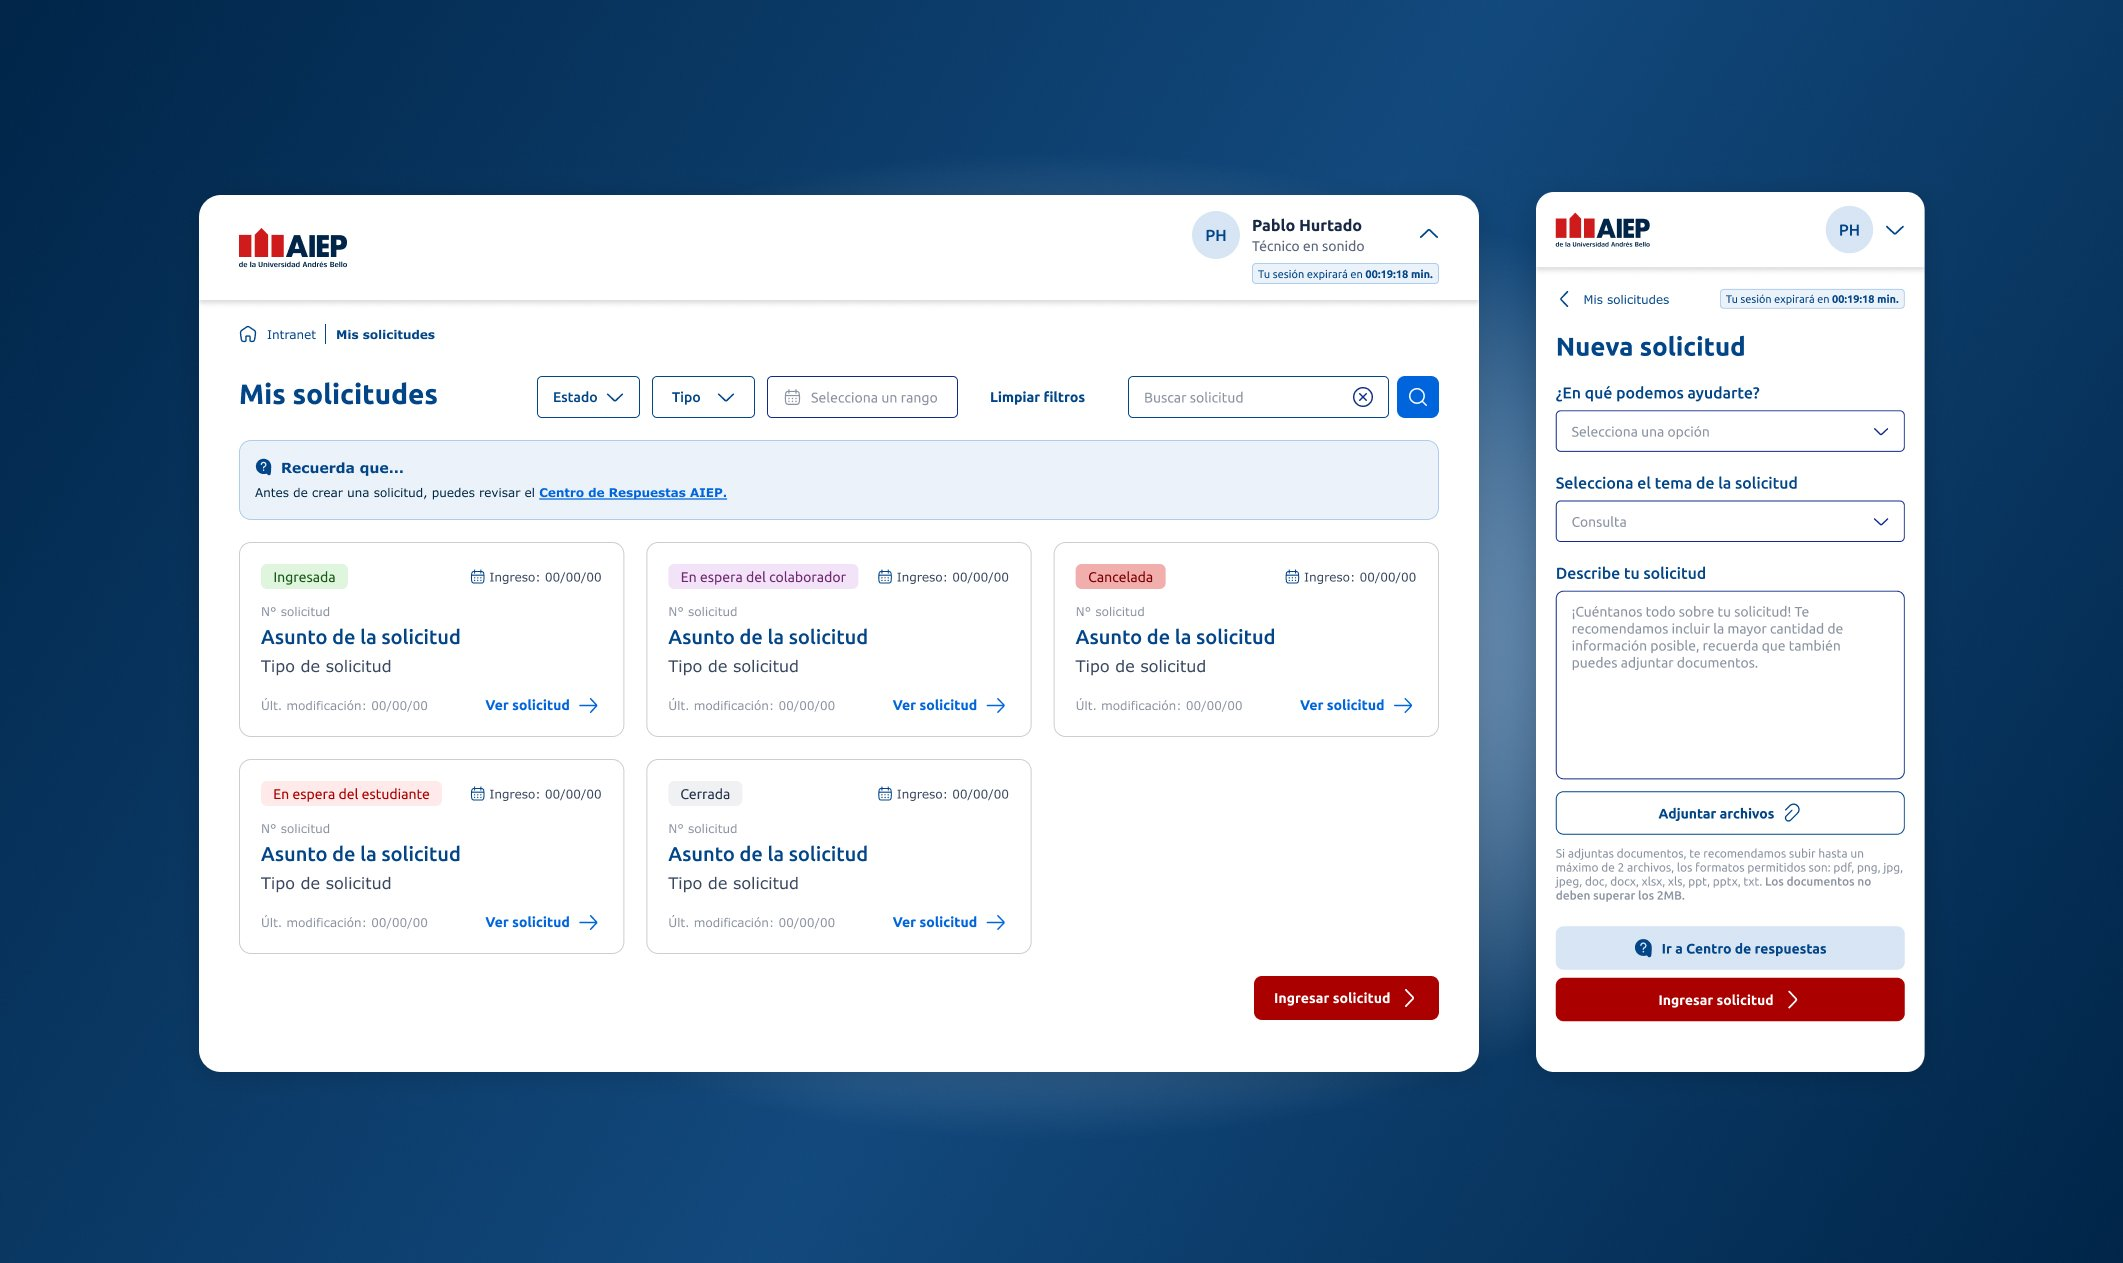
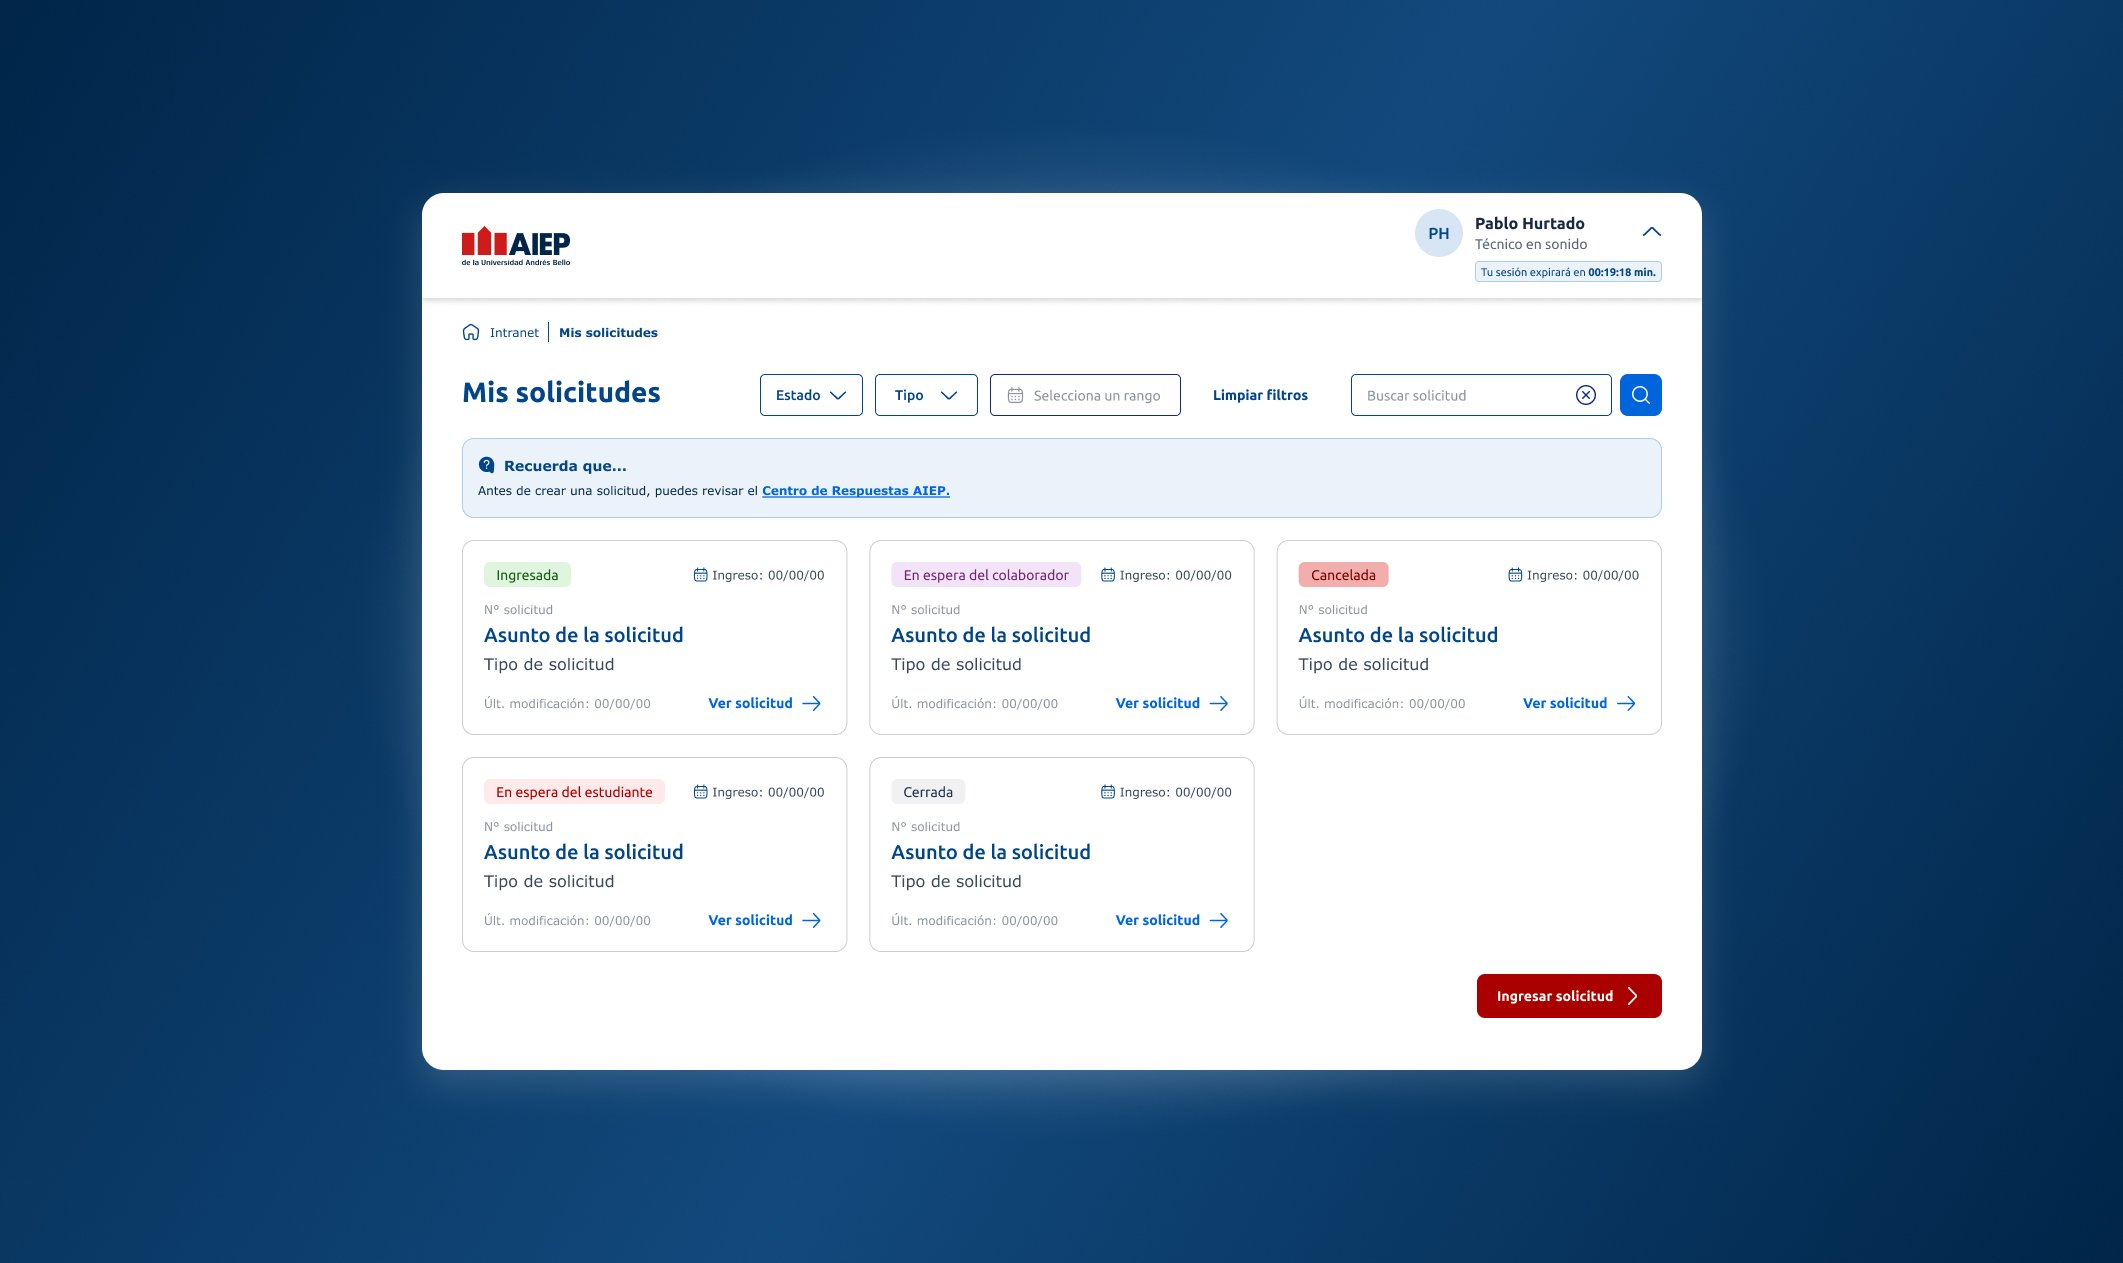
Add remaining subproject card images
Wires up Simulador de Becas y CAE, Recorridos 360°, and Certificados
especiales card images, completing all 4 subproject cards. Also
re-compresses mis-solicitudes-photo.jpg, which had reverted to its
uncompressed size.

Changed region(s): [[0.0933, 0.1544, 0.9326, 0.8646], [0.5285, 0.7102, 0.5596, 0.7411], [0.5285, 0.6176, 0.5596, 0.6485]]

diff --git a/src/data/aiepCaseStudies.js b/src/data/aiepCaseStudies.js
@@ -2,6 +2,9 @@ import designSystem from "../assets/aiep/design-system.jpg"
 import prototipoPago from "../assets/aiep/prototipo-pago.mp4"
 import prototipoMisSolicitudes from "../assets/aiep/prototipo-mis-solicitudes.jpg"
 import misSolicitudesPhoto from "../assets/aiep/mis-solicitudes-photo.jpg"
+import simuladorBecasPhoto from "../assets/aiep/card-simulador-becas.jpg"
+import recorridoPhoto from "../assets/aiep/card-recorrido.jpg"
+import certificadosEspecialesPhoto from "../assets/aiep/card-certificados-especiales.jpg"
 
 export const aiepCaseStudies = {
   "aiep-intranet": {
@@ -137,6 +140,7 @@ export const aiepCaseStudies = {
           image: {
             label: "Simulador de Becas y CAE",
             instruction: "Subir: captura del flujo del simulador mostrando el resultado de la proyección de financiamiento",
+            src: simuladorBecasPhoto,
           },
         },
         {
@@ -147,6 +151,7 @@ export const aiepCaseStudies = {
           image: {
             label: "Recorridos 360°",
             instruction: "Subir: captura del visor de recorrido 360° o mockup del módulo mostrando una sede",
+            src: recorridoPhoto,
           },
         },
         {
@@ -168,6 +173,7 @@ export const aiepCaseStudies = {
           image: {
             label: "Certificados especiales",
             instruction: "Subir: captura del flujo de solicitud de un certificado especial, paso de selección de tipo",
+            src: certificadosEspecialesPhoto,
           },
         },
       ],
